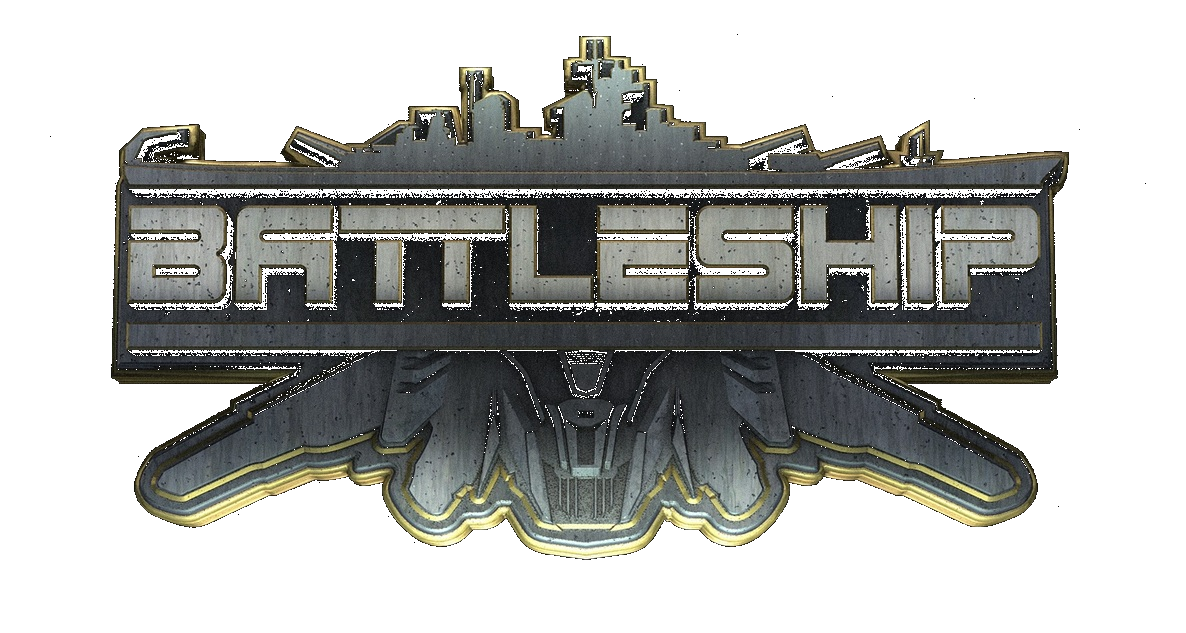
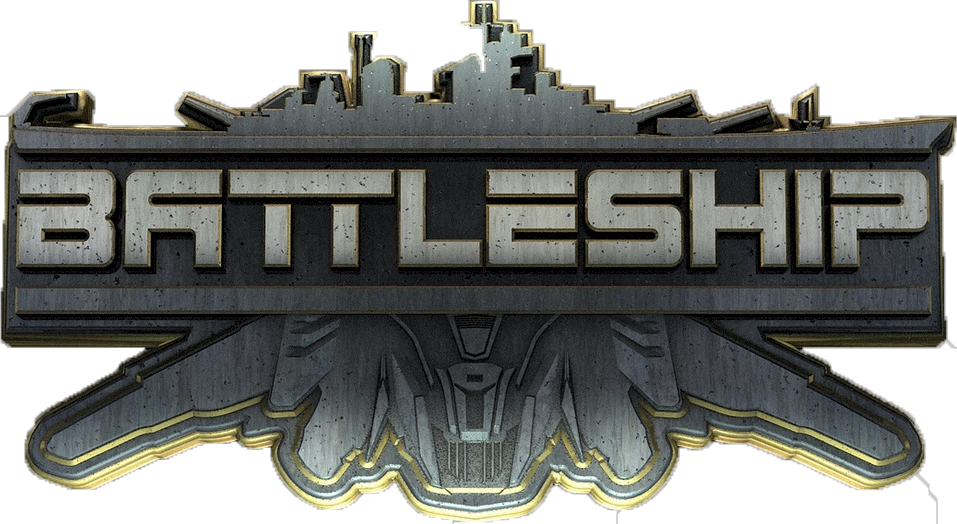
Fixed title in HomePanel

diff --git a/HomePanel.java b/HomePanel.java
@@ -64,8 +64,8 @@ public class HomePanel extends JPanel {
 	public void paintComponent(Graphics g) {
 		g.drawImage(background.getImage(), 0, 0, WIDTH, HEIGHT, null);
 		g.drawImage(title.getImage(), 
-		  150, 40, 850, 290, 
-		  0, 0, 1186, 633,
+		  175, 30, 850, 270, 
+		  0, 0, 957, 524,
 		  null);
 	}
 }
